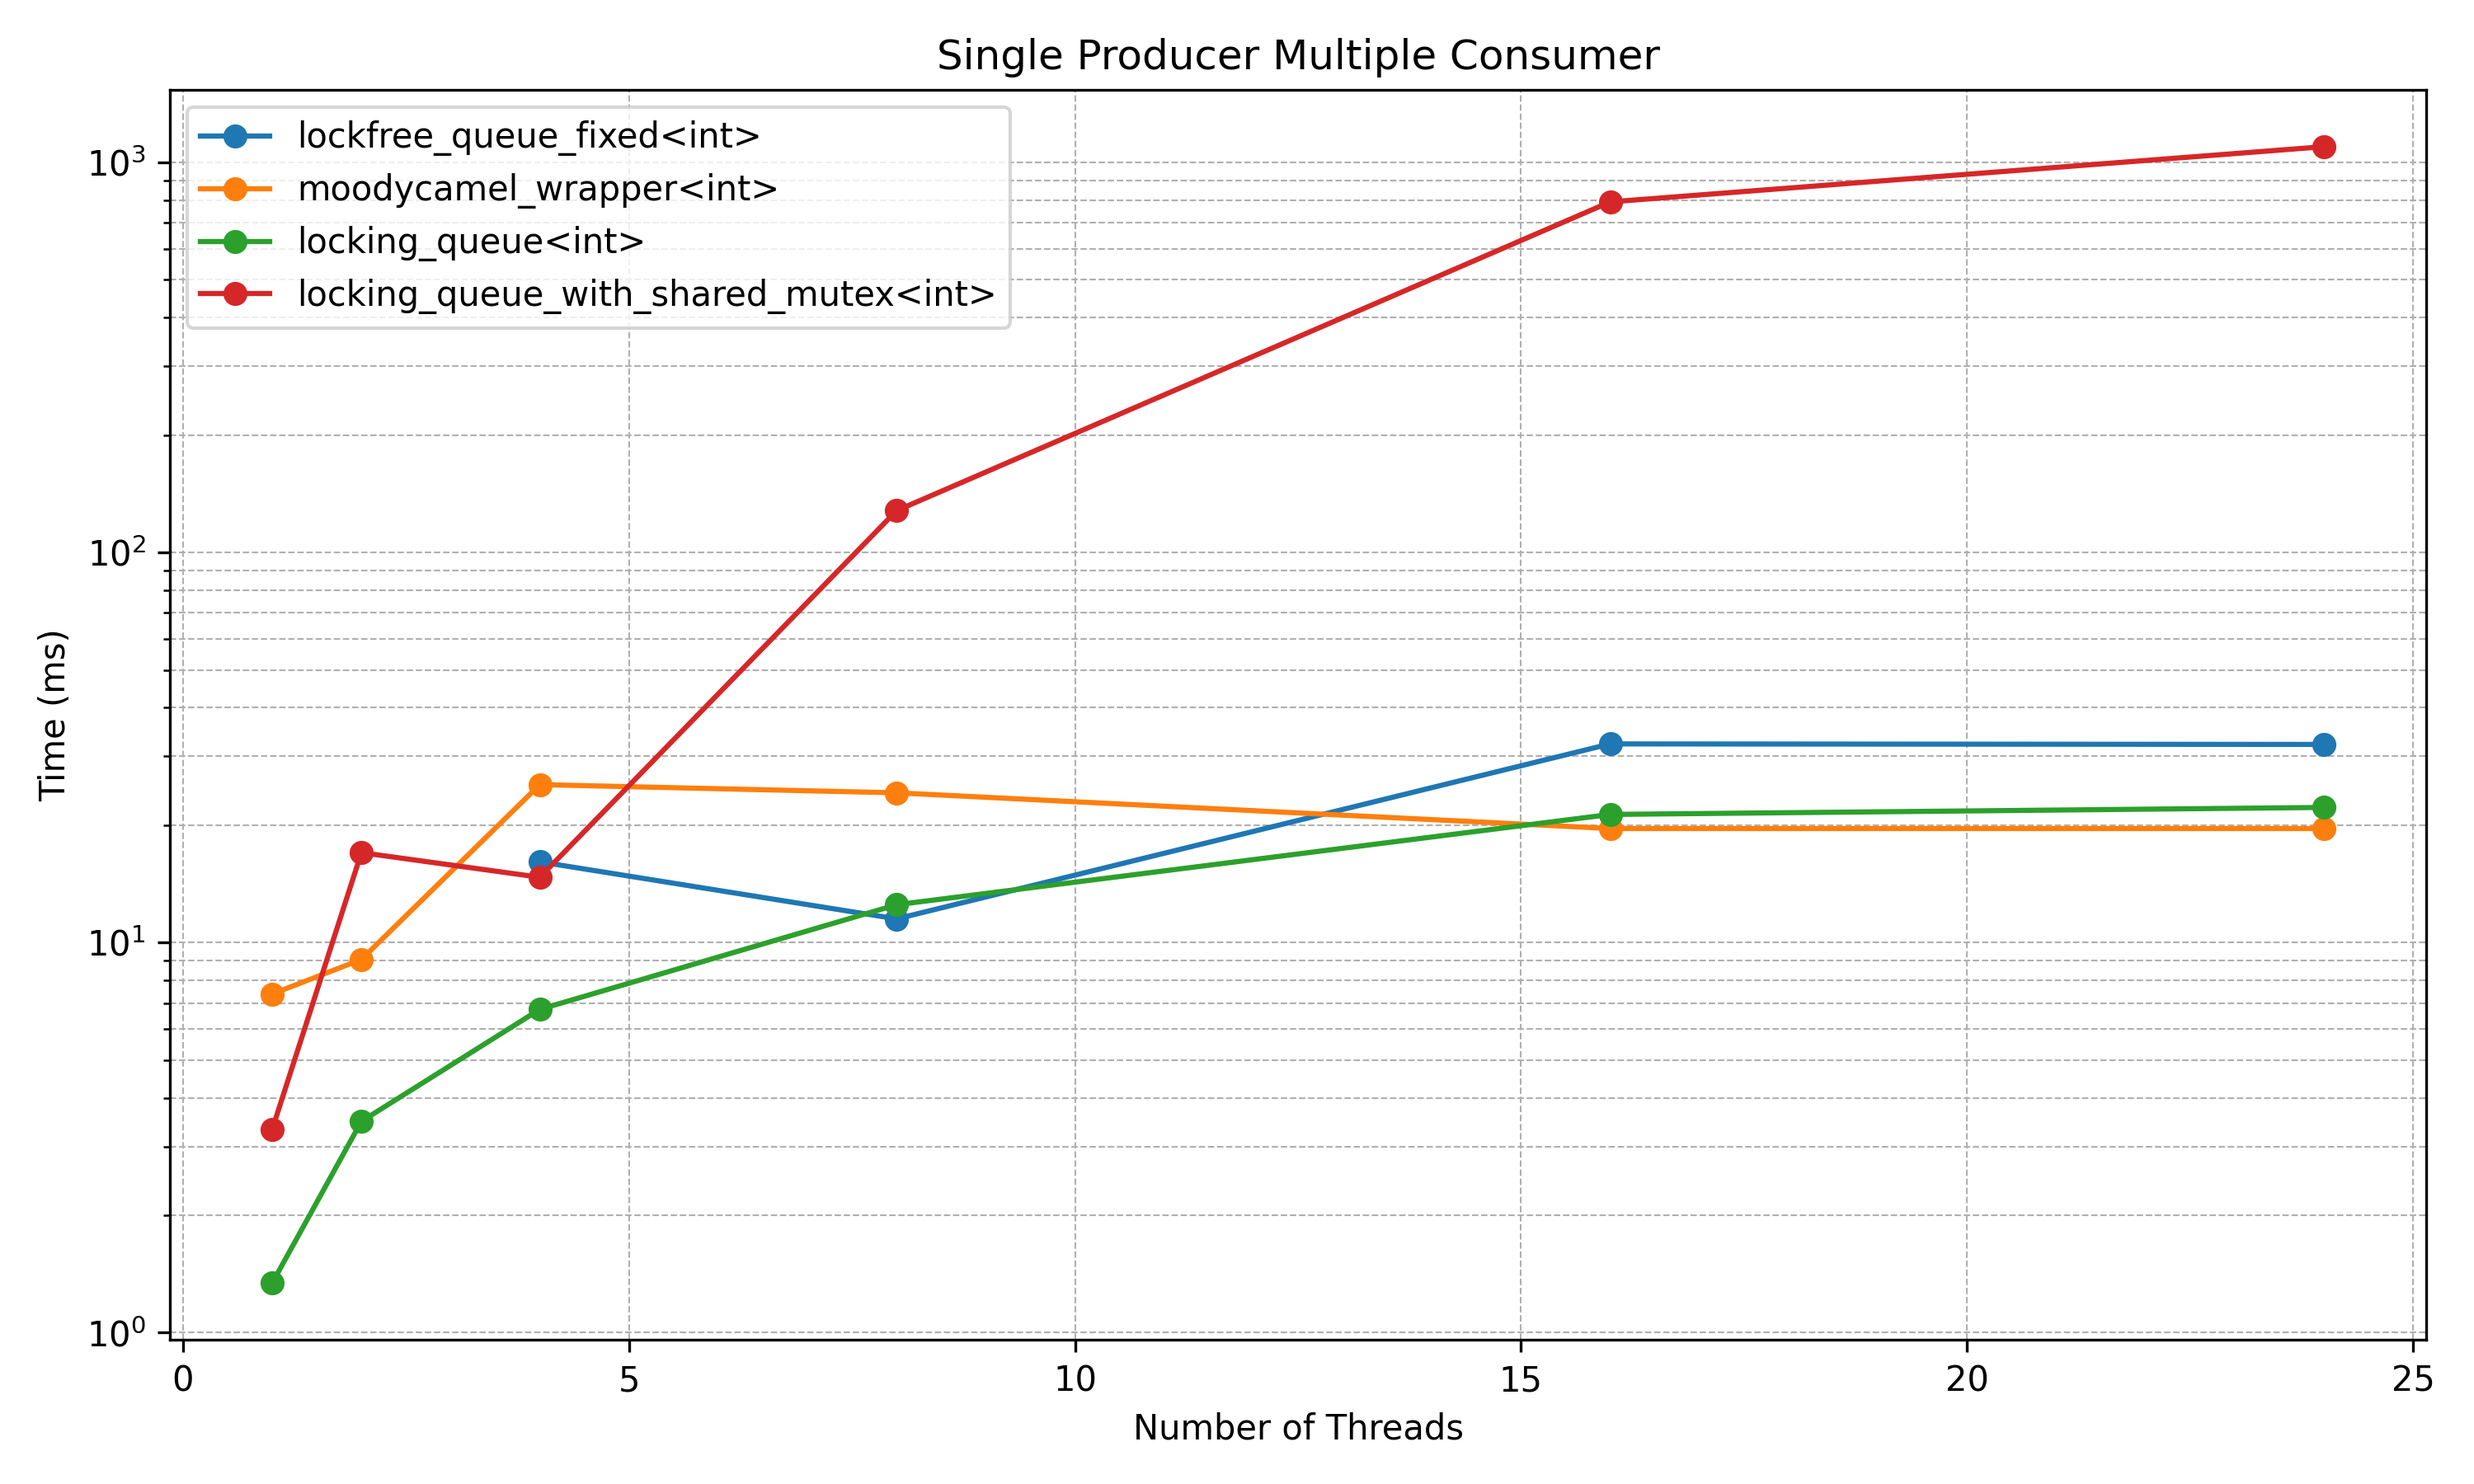
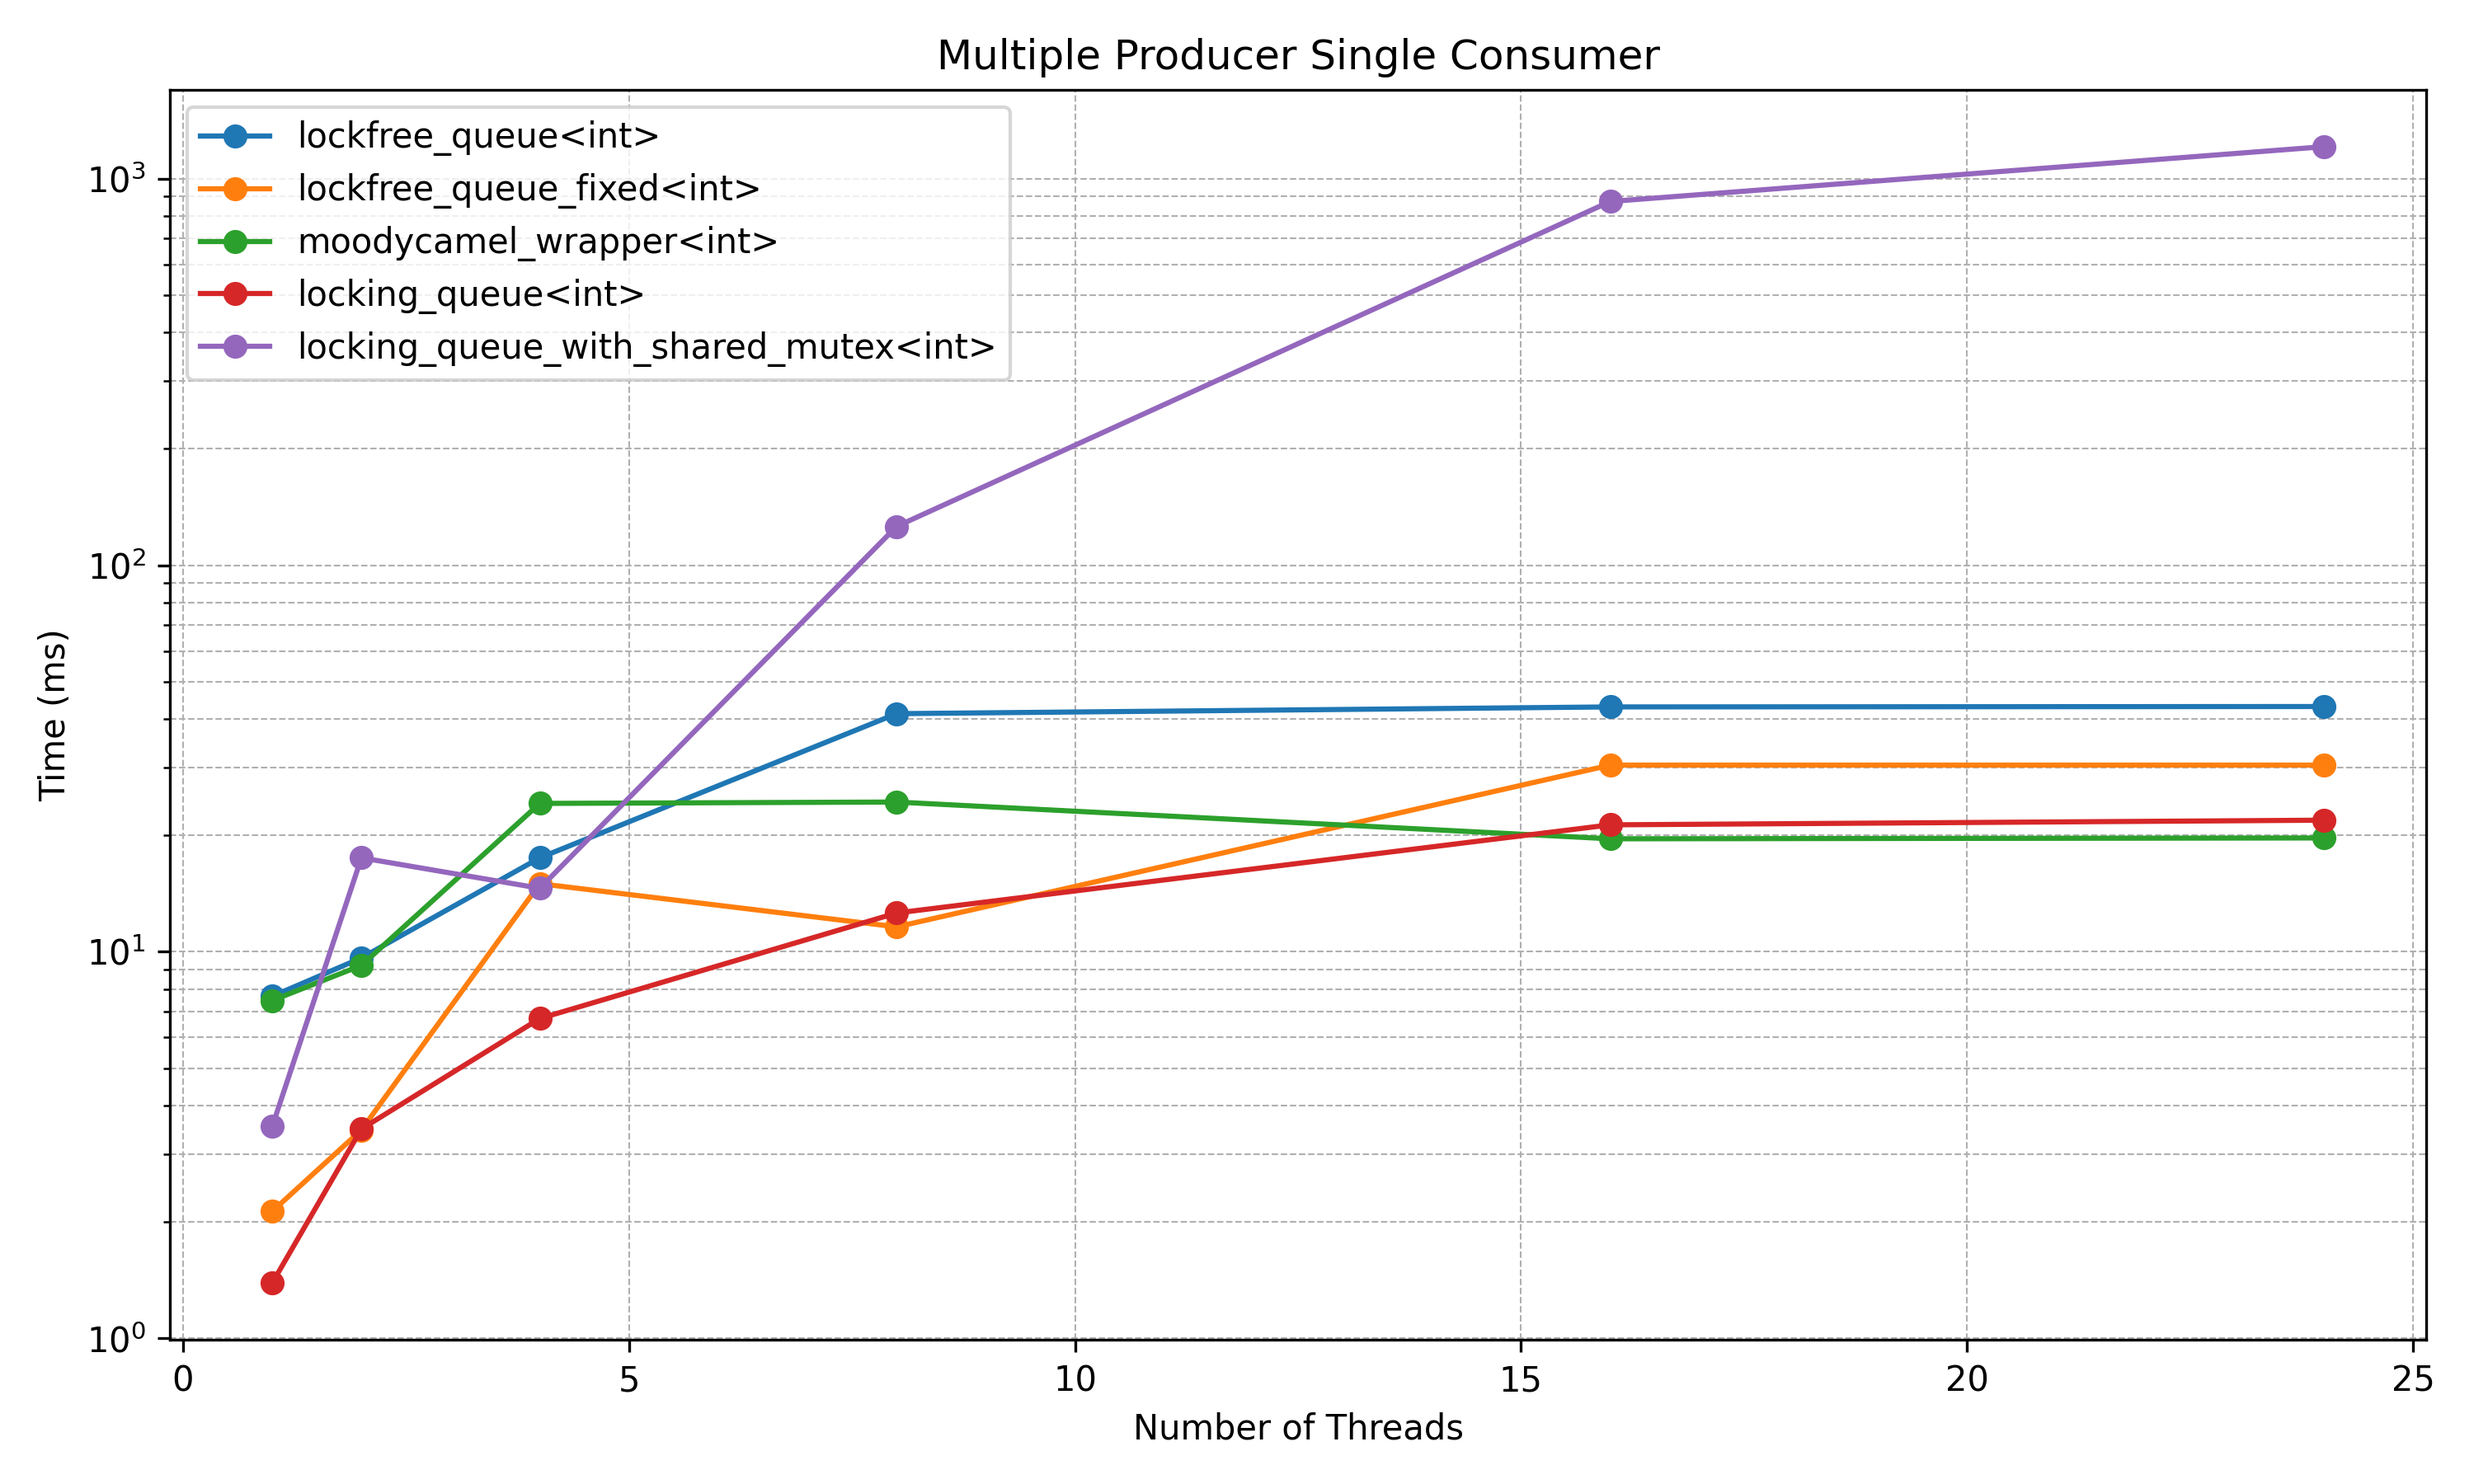
fix benchmarks

diff --git a/benchmarks/plot.py b/benchmarks/plot.py
@@ -2,7 +2,7 @@ import matplotlib.pyplot as plt
 import re
 
 # Raw benchmark data
-data = """
+data_mpsc = """
 bm_queue_mpmc<lockfree_queue<int>>/100000/1/1                         7.37 ms        0.041 ms         1000
 bm_queue_mpmc<lockfree_queue<int>>/100000/2/1                         20.4 ms        0.048 ms         1000
 bm_queue_mpmc<lockfree_queue<int>>/100000/4/1                         61.4 ms        0.072 ms          100
@@ -35,37 +35,36 @@ bm_queue_mpmc<locking_queue_with_shared_mutex<int>>/100000/16/1       6711 ms   
 bm_queue_mpmc<locking_queue_with_shared_mutex<int>>/100000/24/1      17955 ms        0.290 ms            1
 """
 data_spmc = """
-interpret this results:
-bm_queue_mpmc<lockfree_queue<int>>/100000/1/1                         7.35 m
-bm_queue_mpmc<lockfree_queue<int>>/100000/1/2                         9.95 m
-bm_queue_mpmc<lockfree_queue<int>>/100000/1/4                         18.5 m
-bm_queue_mpmc<lockfree_queue<int>>/100000/1/8                         41.4 m
-bm_queue_mpmc<lockfree_queue<int>>/100000/1/16                        41.9 m
-bm_queue_mpmc<lockfree_queue<int>>/100000/1/24                        43.0 m
-bm_queue_mpmc<lockfree_queue_fixed<int>>/100000/1/1                   1.97 m
-bm_queue_mpmc<lockfree_queue_fixed<int>>/100000/1/2                   3.41 m
-bm_queue_mpmc<lockfree_queue_fixed<int>>/100000/1/4                   16.1 ms        0.141 ms         1000
-bm_queue_mpmc<lockfree_queue_fixed<int>>/100000/1/8                   11.5 ms        0.179 ms         1000
-bm_queue_mpmc<lockfree_queue_fixed<int>>/100000/1/16                  32.3 ms        0.259 ms          100
-bm_queue_mpmc<lockfree_queue_fixed<int>>/100000/1/24                  32.2 ms        0.336 ms          100
-bm_queue_mpmc<moodycamel_wrapper<int>>/100000/1/1                     7.38 ms        0.061 ms         1000
-bm_queue_mpmc<moodycamel_wrapper<int>>/100000/1/2                     9.05 ms        0.054 ms         1000
-bm_queue_mpmc<moodycamel_wrapper<int>>/100000/1/4                     25.4 ms        0.088 ms          100
-bm_queue_mpmc<moodycamel_wrapper<int>>/100000/1/8                     24.2 ms        0.132 ms         1000
-bm_queue_mpmc<moodycamel_wrapper<int>>/100000/1/16                    19.6 ms        0.209 ms         1000
-bm_queue_mpmc<moodycamel_wrapper<int>>/100000/1/24                    19.6 ms        0.280 ms         1000
-bm_queue_mpmc<locking_queue<int>>/100000/1/1                          1.34 ms        0.029 ms        10000
-bm_queue_mpmc<locking_queue<int>>/100000/1/2                          3.48 ms        0.033 ms         1000
-bm_queue_mpmc<locking_queue<int>>/100000/1/4                          6.74 ms        0.065 ms         1000
-bm_queue_mpmc<locking_queue<int>>/100000/1/8                          12.5 ms        0.098 ms         1000
-bm_queue_mpmc<locking_queue<int>>/100000/1/16                         21.3 ms        0.186 ms         1000
-bm_queue_mpmc<locking_queue<int>>/100000/1/24                         22.2 ms        0.274 ms         1000
-bm_queue_mpmc<locking_queue_with_shared_mutex<int>>/100000/1/1        3.32 ms        0.026 ms         1000
-bm_queue_mpmc<locking_queue_with_shared_mutex<int>>/100000/1/2        17.0 ms        0.037 ms         1000
-bm_queue_mpmc<locking_queue_with_shared_mutex<int>>/100000/1/4        14.7 ms        0.063 ms         1000
-bm_queue_mpmc<locking_queue_with_shared_mutex<int>>/100000/1/8         128 ms        0.105 ms          100
-bm_queue_mpmc<locking_queue_with_shared_mutex<int>>/100000/1/16        792 ms        0.200 ms           10
-bm_queue_mpmc<locking_queue_with_shared_mutex<int>>/100000/1/24       1097 ms        0.270 ms           10
+bm_queue_mpmc<lockfree_queue<int>>/100000/1/1                         7.67 ms        0.047 ms         1000 
+bm_queue_mpmc<lockfree_queue<int>>/100000/1/2                         9.64 ms        0.045 ms         1000 
+bm_queue_mpmc<lockfree_queue<int>>/100000/1/4                         17.5 ms        0.064 ms         1000 
+bm_queue_mpmc<lockfree_queue<int>>/100000/1/8                         41.3 ms        0.095 ms          100 
+bm_queue_mpmc<lockfree_queue<int>>/100000/1/16                        43.0 ms        0.162 ms          100 
+bm_queue_mpmc<lockfree_queue<int>>/100000/1/24                        43.1 ms        0.226 ms          100 
+bm_queue_mpmc<lockfree_queue_fixed<int>>/100000/1/1                   2.13 ms        0.102 ms         6942 
+bm_queue_mpmc<lockfree_queue_fixed<int>>/100000/1/2                   3.46 ms        0.093 ms         1000 
+bm_queue_mpmc<lockfree_queue_fixed<int>>/100000/1/4                   15.0 ms        0.145 ms         1000 
+bm_queue_mpmc<lockfree_queue_fixed<int>>/100000/1/8                   11.6 ms        0.177 ms         1000 
+bm_queue_mpmc<lockfree_queue_fixed<int>>/100000/1/16                  30.4 ms        0.249 ms          100 
+bm_queue_mpmc<lockfree_queue_fixed<int>>/100000/1/24                  30.4 ms        0.336 ms          100 
+bm_queue_mpmc<moodycamel_wrapper<int>>/100000/1/1                     7.48 ms        0.061 ms         1000 
+bm_queue_mpmc<moodycamel_wrapper<int>>/100000/1/2                     9.22 ms        0.054 ms         1000 
+bm_queue_mpmc<moodycamel_wrapper<int>>/100000/1/4                     24.2 ms        0.096 ms         1000 
+bm_queue_mpmc<moodycamel_wrapper<int>>/100000/1/8                     24.4 ms        0.132 ms         1000 
+bm_queue_mpmc<moodycamel_wrapper<int>>/100000/1/16                    19.6 ms        0.211 ms         1000 
+bm_queue_mpmc<moodycamel_wrapper<int>>/100000/1/24                    19.7 ms        0.278 ms         1000 
+bm_queue_mpmc<locking_queue<int>>/100000/1/1                          1.39 ms        0.031 ms        10000 
+bm_queue_mpmc<locking_queue<int>>/100000/1/2                          3.48 ms        0.033 ms         1000 
+bm_queue_mpmc<locking_queue<int>>/100000/1/4                          6.72 ms        0.064 ms         1000 
+bm_queue_mpmc<locking_queue<int>>/100000/1/8                          12.6 ms        0.096 ms         1000 
+bm_queue_mpmc<locking_queue<int>>/100000/1/16                         21.3 ms        0.186 ms         1000 
+bm_queue_mpmc<locking_queue<int>>/100000/1/24                         21.9 ms        0.275 ms         1000 
+bm_queue_mpmc<locking_queue_with_shared_mutex<int>>/100000/1/1        3.53 ms        0.026 ms         1000 
+bm_queue_mpmc<locking_queue_with_shared_mutex<int>>/100000/1/2        17.5 ms        0.036 ms         1000 
+bm_queue_mpmc<locking_queue_with_shared_mutex<int>>/100000/1/4        14.6 ms        0.063 ms         1000 
+bm_queue_mpmc<locking_queue_with_shared_mutex<int>>/100000/1/8         126 ms        0.106 ms          100 
+bm_queue_mpmc<locking_queue_with_shared_mutex<int>>/100000/1/16        873 ms        0.200 ms           10 
+bm_queue_mpmc<locking_queue_with_shared_mutex<int>>/100000/1/24       1210 ms        0.262 ms           10 
 """
 
 # Parse the data
